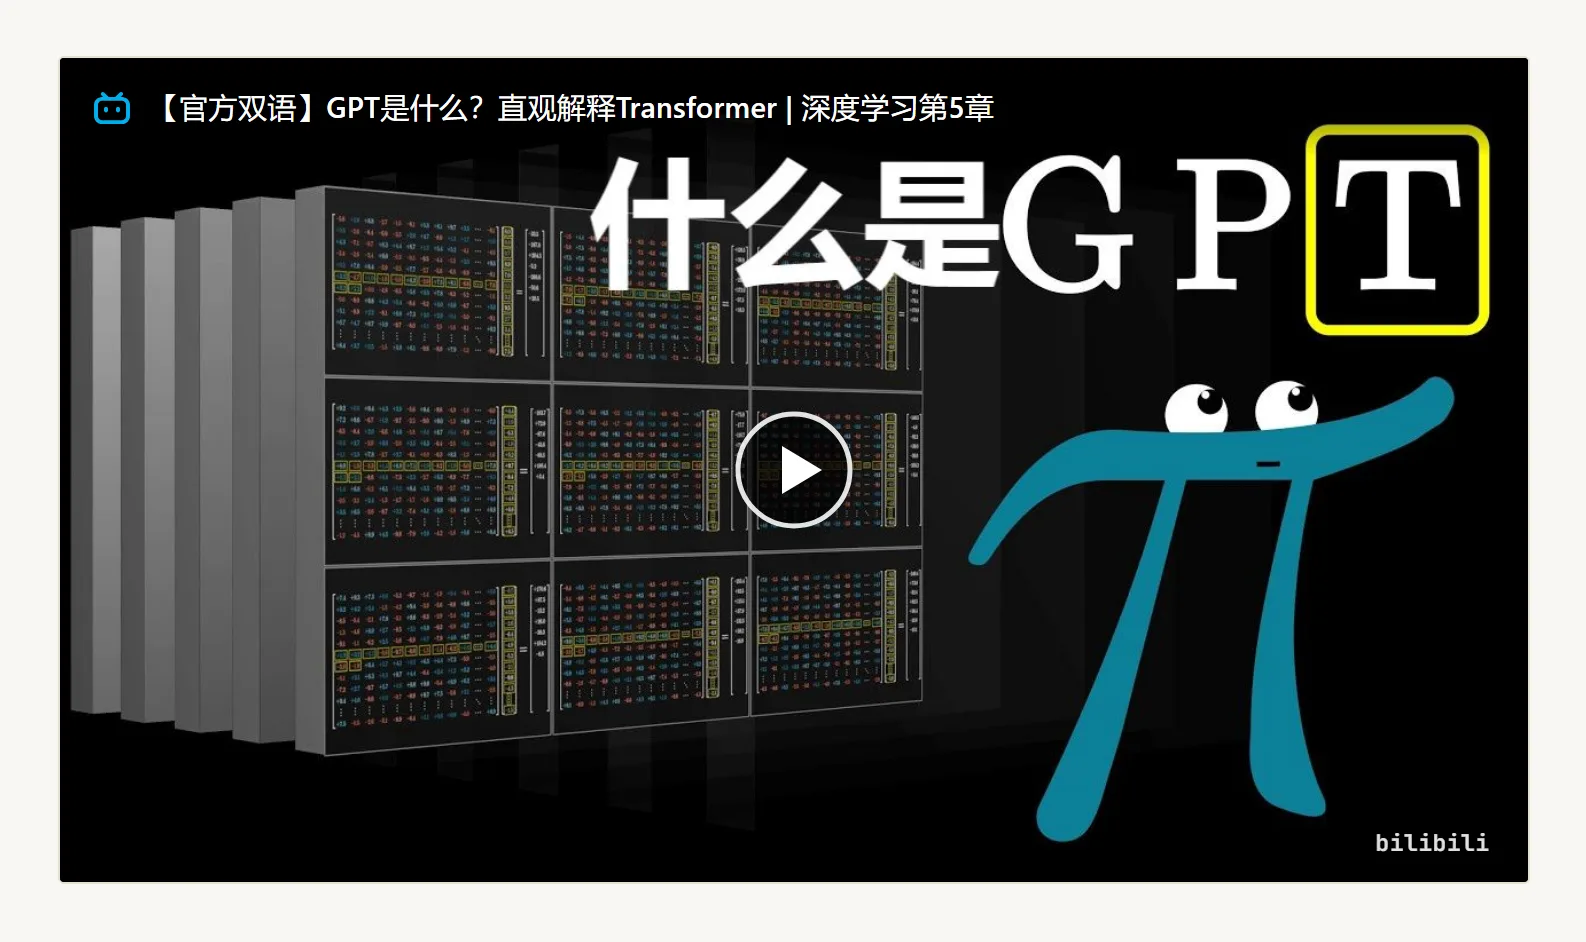
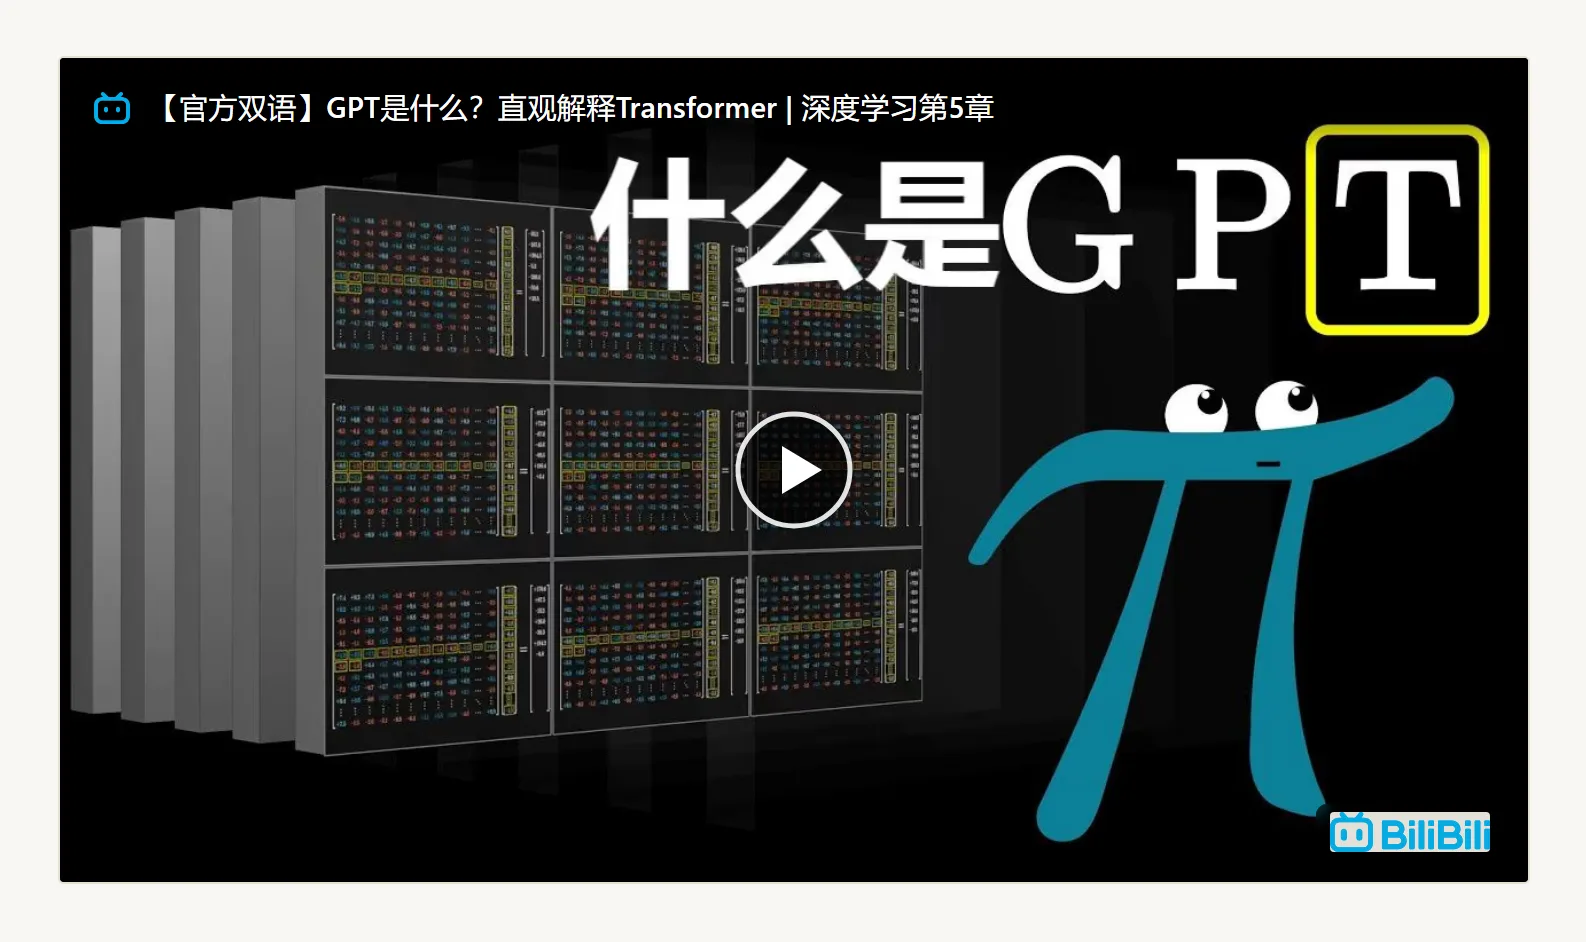
feat(video): 平台标识改用官方字形 SVG

Changed region(s): [[0.8342, 0.862, 0.9578, 0.9236]]

diff --git a/tests/markdown.test.ts b/tests/markdown.test.ts
@@ -119,7 +119,7 @@ describe('自定义指令：内嵌播放器', () => {
     expect(html).toContain('class="embed-player embed-bilibili"');
     expect(html).toContain('data-embed-src="https://player.bilibili.com/player.html?bvid=BV1xx411c7mD&#x26;autoplay=1"');
     expect(html).toContain('embed-play-btn-bili');
-    expect(html).toContain('bilibili');
+    expect(html).toContain('src="/brand/bilibili-badge.svg"');
   });
 
   it('::youtube 渲染高性能门面播放器卡片（Facade 带默认缩略图）', async () => {
@@ -132,7 +132,7 @@ describe('自定义指令：内嵌播放器', () => {
     expect(html).toContain('class="embed-player embed-youtube"');
     expect(html).toContain('data-embed-src="https://www.youtube-nocookie.com/embed/dQw4w9WgXcQ?autoplay=1"');
     expect(html).toContain('embed-play-btn-yt');
-    expect(html).toContain('YouTube');
+    expect(html).toContain('src="/brand/youtube-badge.svg"');
     expect(html).toContain('https://i.ytimg.com/vi/dQw4w9WgXcQ/hqdefault.jpg');
   });
 

diff --git a/src/lib/markdown.ts b/src/lib/markdown.ts
@@ -269,9 +269,18 @@ function toEmbedDiv(
     children.push(playBtn);
   }
 
-  // 3. 底部角落标识
+  // 3. 底部角落标识：平台官方字形 SVG，不依赖站内字体
+  const badgeImage = hEl('img', {
+    className: ['embed-badge-logo'],
+    src: withBase('/brand/' + kind + '-badge.svg', baseUrl),
+    alt: getUiLabels(lang).embed[kind === 'bilibili' ? 'bilibiliBadge' : 'youtubeBadge'],
+    loading: 'lazy',
+    decoding: 'async',
+    width: kind === 'youtube' ? 512 : 1000,
+    height: kind === 'youtube' ? 114 : 252,
+  });
   const bottomBar = hEl('div', { className: ['embed-bottombar'] }, [
-    hEl('span', { className: ['embed-corner-badge'] }, [hTxt(getUiLabels(lang).embed[kind === 'bilibili' ? 'bilibiliBadge' : 'youtubeBadge'])]),
+    hEl('span', { className: ['embed-corner-badge'] }, [badgeImage]),
   ]);
   children.push(bottomBar);
 

diff --git a/src/styles/global.css b/src/styles/global.css
@@ -2213,15 +2213,22 @@ html.js .timeline-item.reveal.revealed {
   pointer-events: none;
 }
 .markdown-body .embed-corner-badge {
-  font-size: 0.72rem;
-  font-weight: 600;
-  padding: 0.15rem 0.45rem;
-  border-radius: 4px;
-  background: rgba(0, 0, 0, 0.65);
-  color: rgba(255, 255, 255, 0.88);
-  font-family: var(--font-mono);
-  letter-spacing: 0.02em;
+  display: inline-flex;
+  align-items: center;
+  justify-content: center;
+  padding: 0.25rem 0.45rem;
+  border-radius: 0.35rem;
+  background: rgba(0, 0, 0, 0.5);
   backdrop-filter: blur(4px);
+  line-height: 0;
+}
+
+.markdown-body .embed-badge-logo {
+  display: block;
+  height: clamp(14px, 2.8vw, 20px);
+  width: auto;
+  opacity: 0.94;
+  filter: drop-shadow(0 1px 2px rgba(0, 0, 0, 0.35));
 }
 
 .markdown-body .embed-player.is-active .embed-poster,

diff --git a/scripts/screenshots.ts b/scripts/screenshots.ts
@@ -453,7 +453,7 @@ const SHOTS: Shot[] = [
     padding: 28,
     prepare: async (page) => {
       await page.waitForFunction(() =>
-        Array.from(document.querySelectorAll(".page-content .embed-player .embed-poster")).every(
+        Array.from(document.querySelectorAll(".page-content .embed-player img")).every(
           (img) => { const image = img as HTMLImageElement; return image.complete && image.naturalWidth > 0; },
         ),
         undefined,
